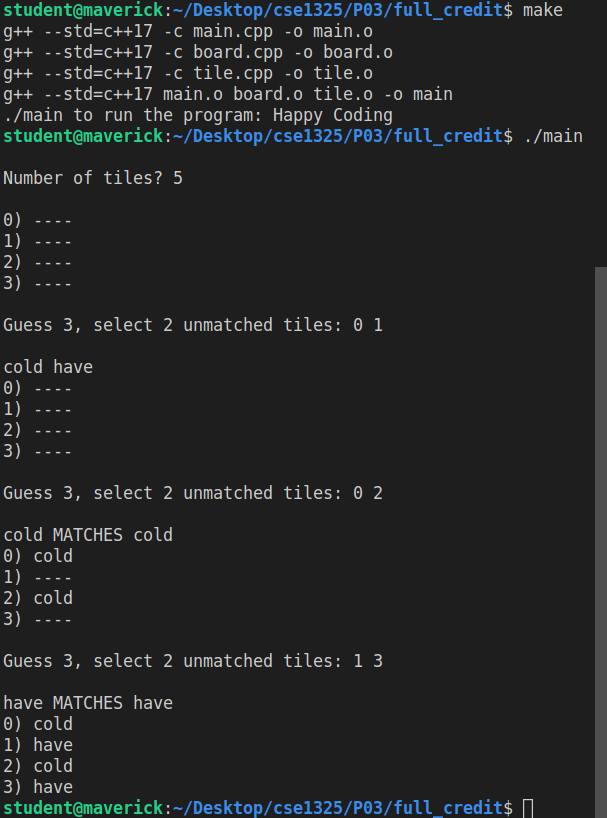
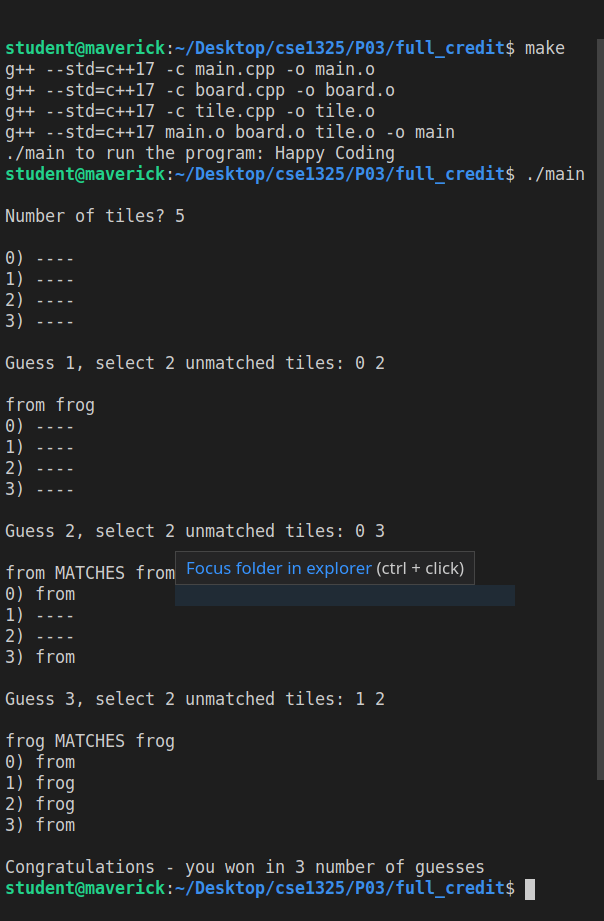
Added guess number and attempt

diff --git a/P03/full_credit/main.cpp b/P03/full_credit/main.cpp
@@ -6,16 +6,15 @@ int main(){
     std::cout<<std::endl<<"Number of tiles? ";
     std::cin>>num_tiles;
     Board matching_words{num_tiles};
-    
+    int guess_num=0;
     std::cout<<std::endl<<matching_words.to_string();
     while (matching_words.solved()==false){
-        std::cout<<std::endl<<"Guess 3, select 2 unmatched tiles: ";
+        guess_num++;
+        std::cout<<std::endl<<"Guess "<< guess_num<<", select 2 unmatched tiles: ";
         std::cin>>tile1>>tile2;
         std::cout<<std::endl<<matching_words.attempt(tile1,tile2);
         std::cout<<std::endl<<matching_words.to_string();
-
     }
-    
-    
+    std::cout<<std::endl<<"Congratulations - you won in "<<guess_num<< " number of guesses"<<std::endl;  
     return 0;
 }
